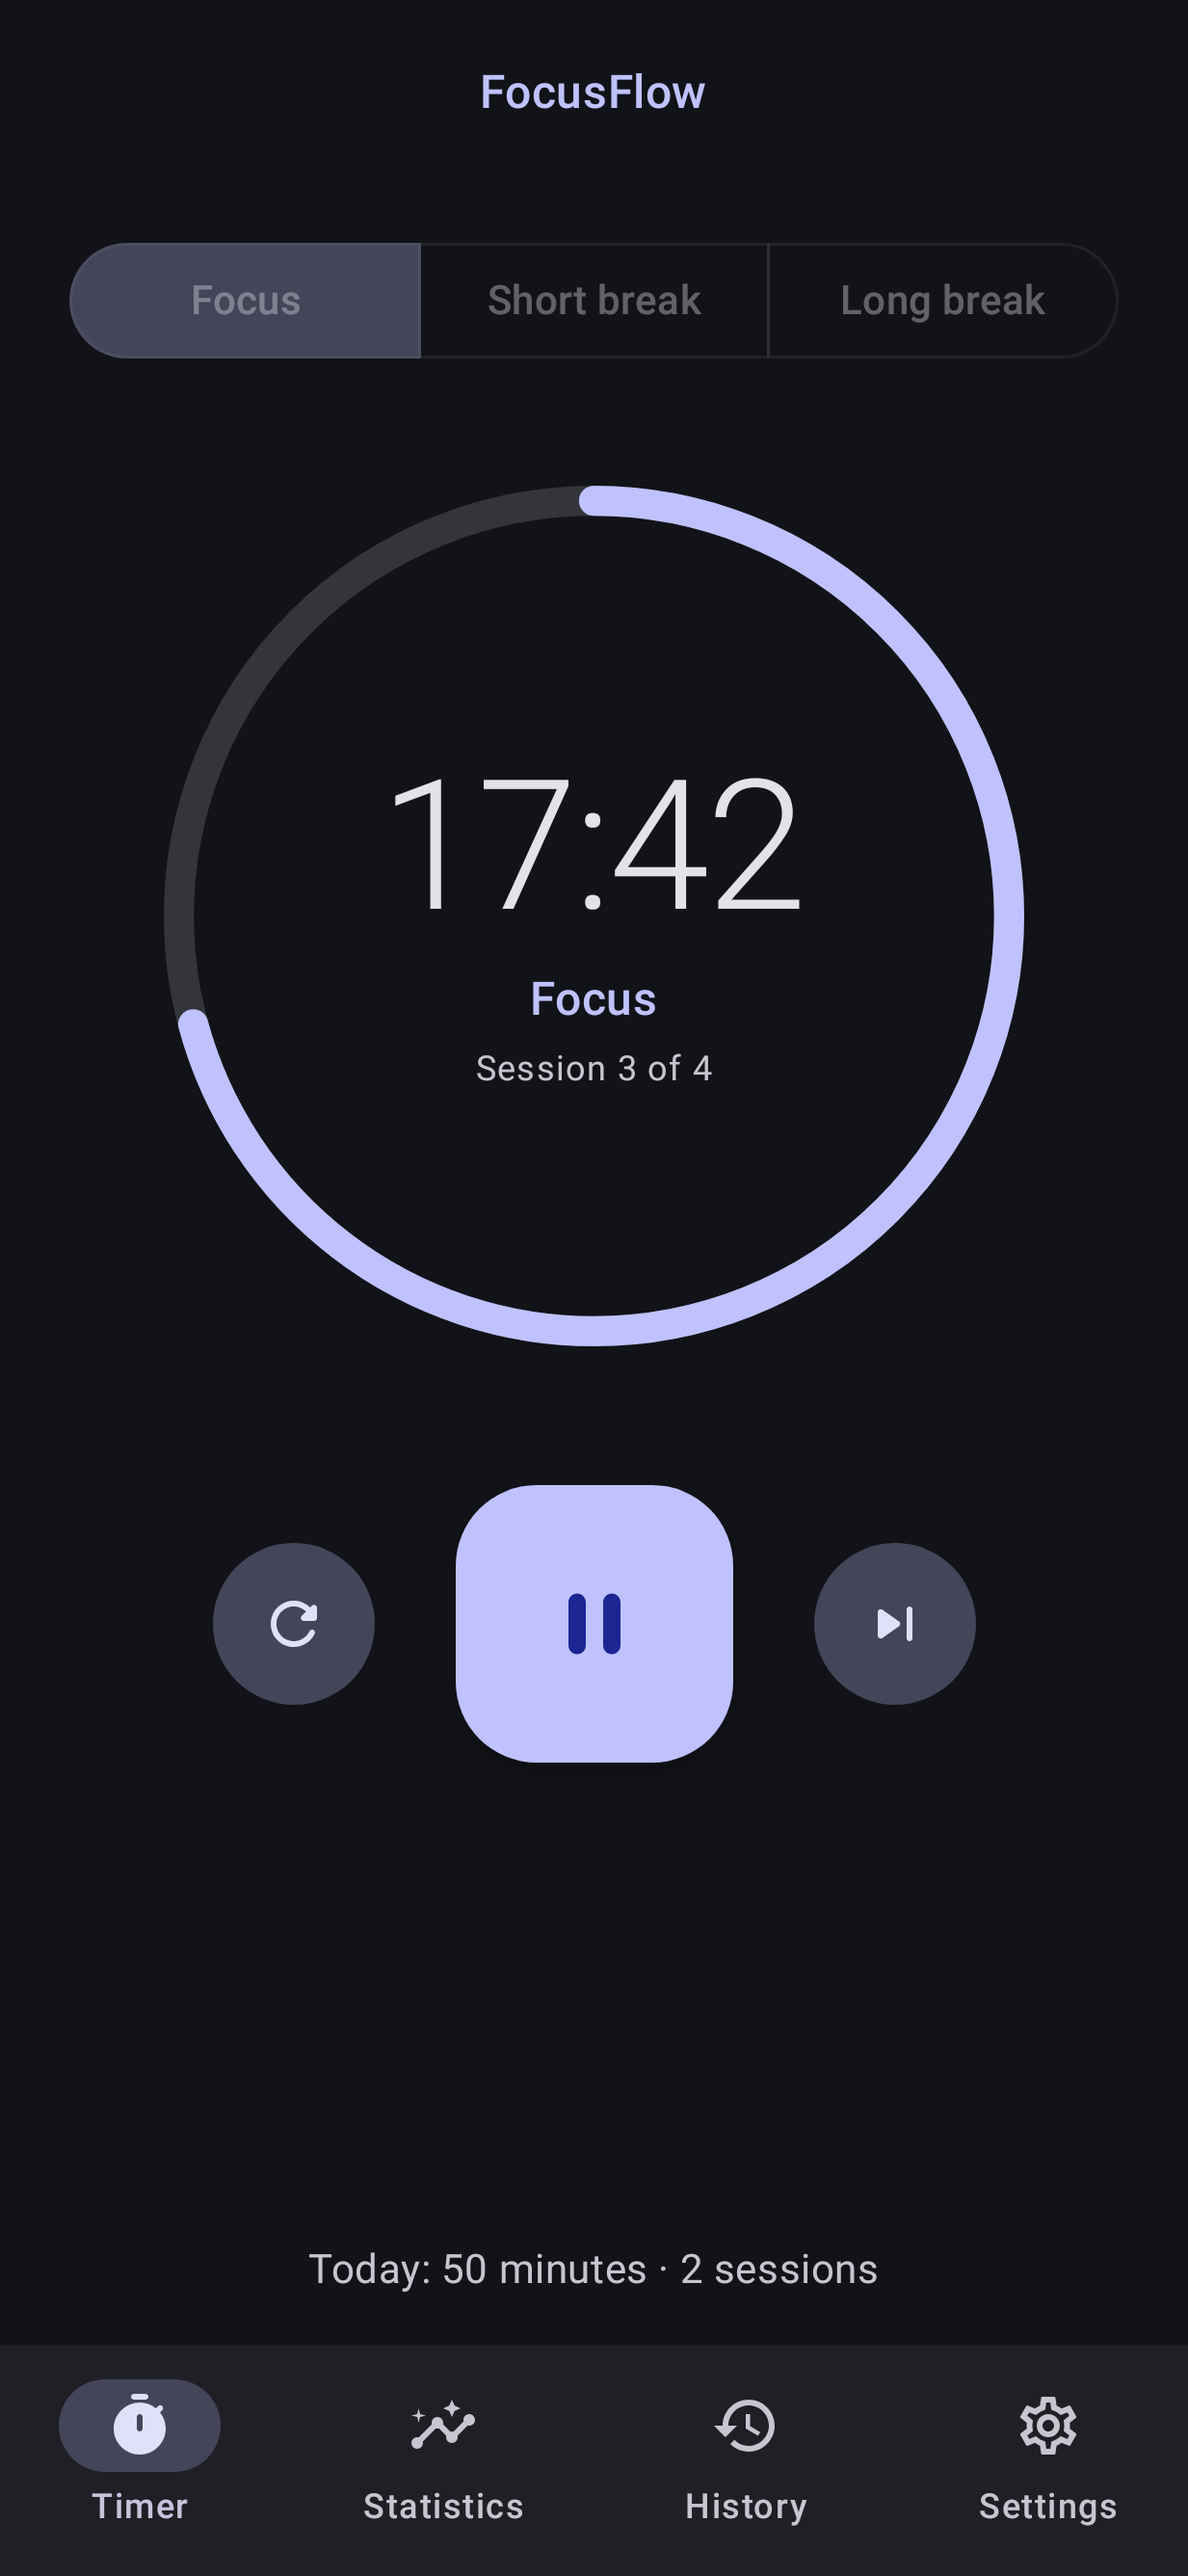
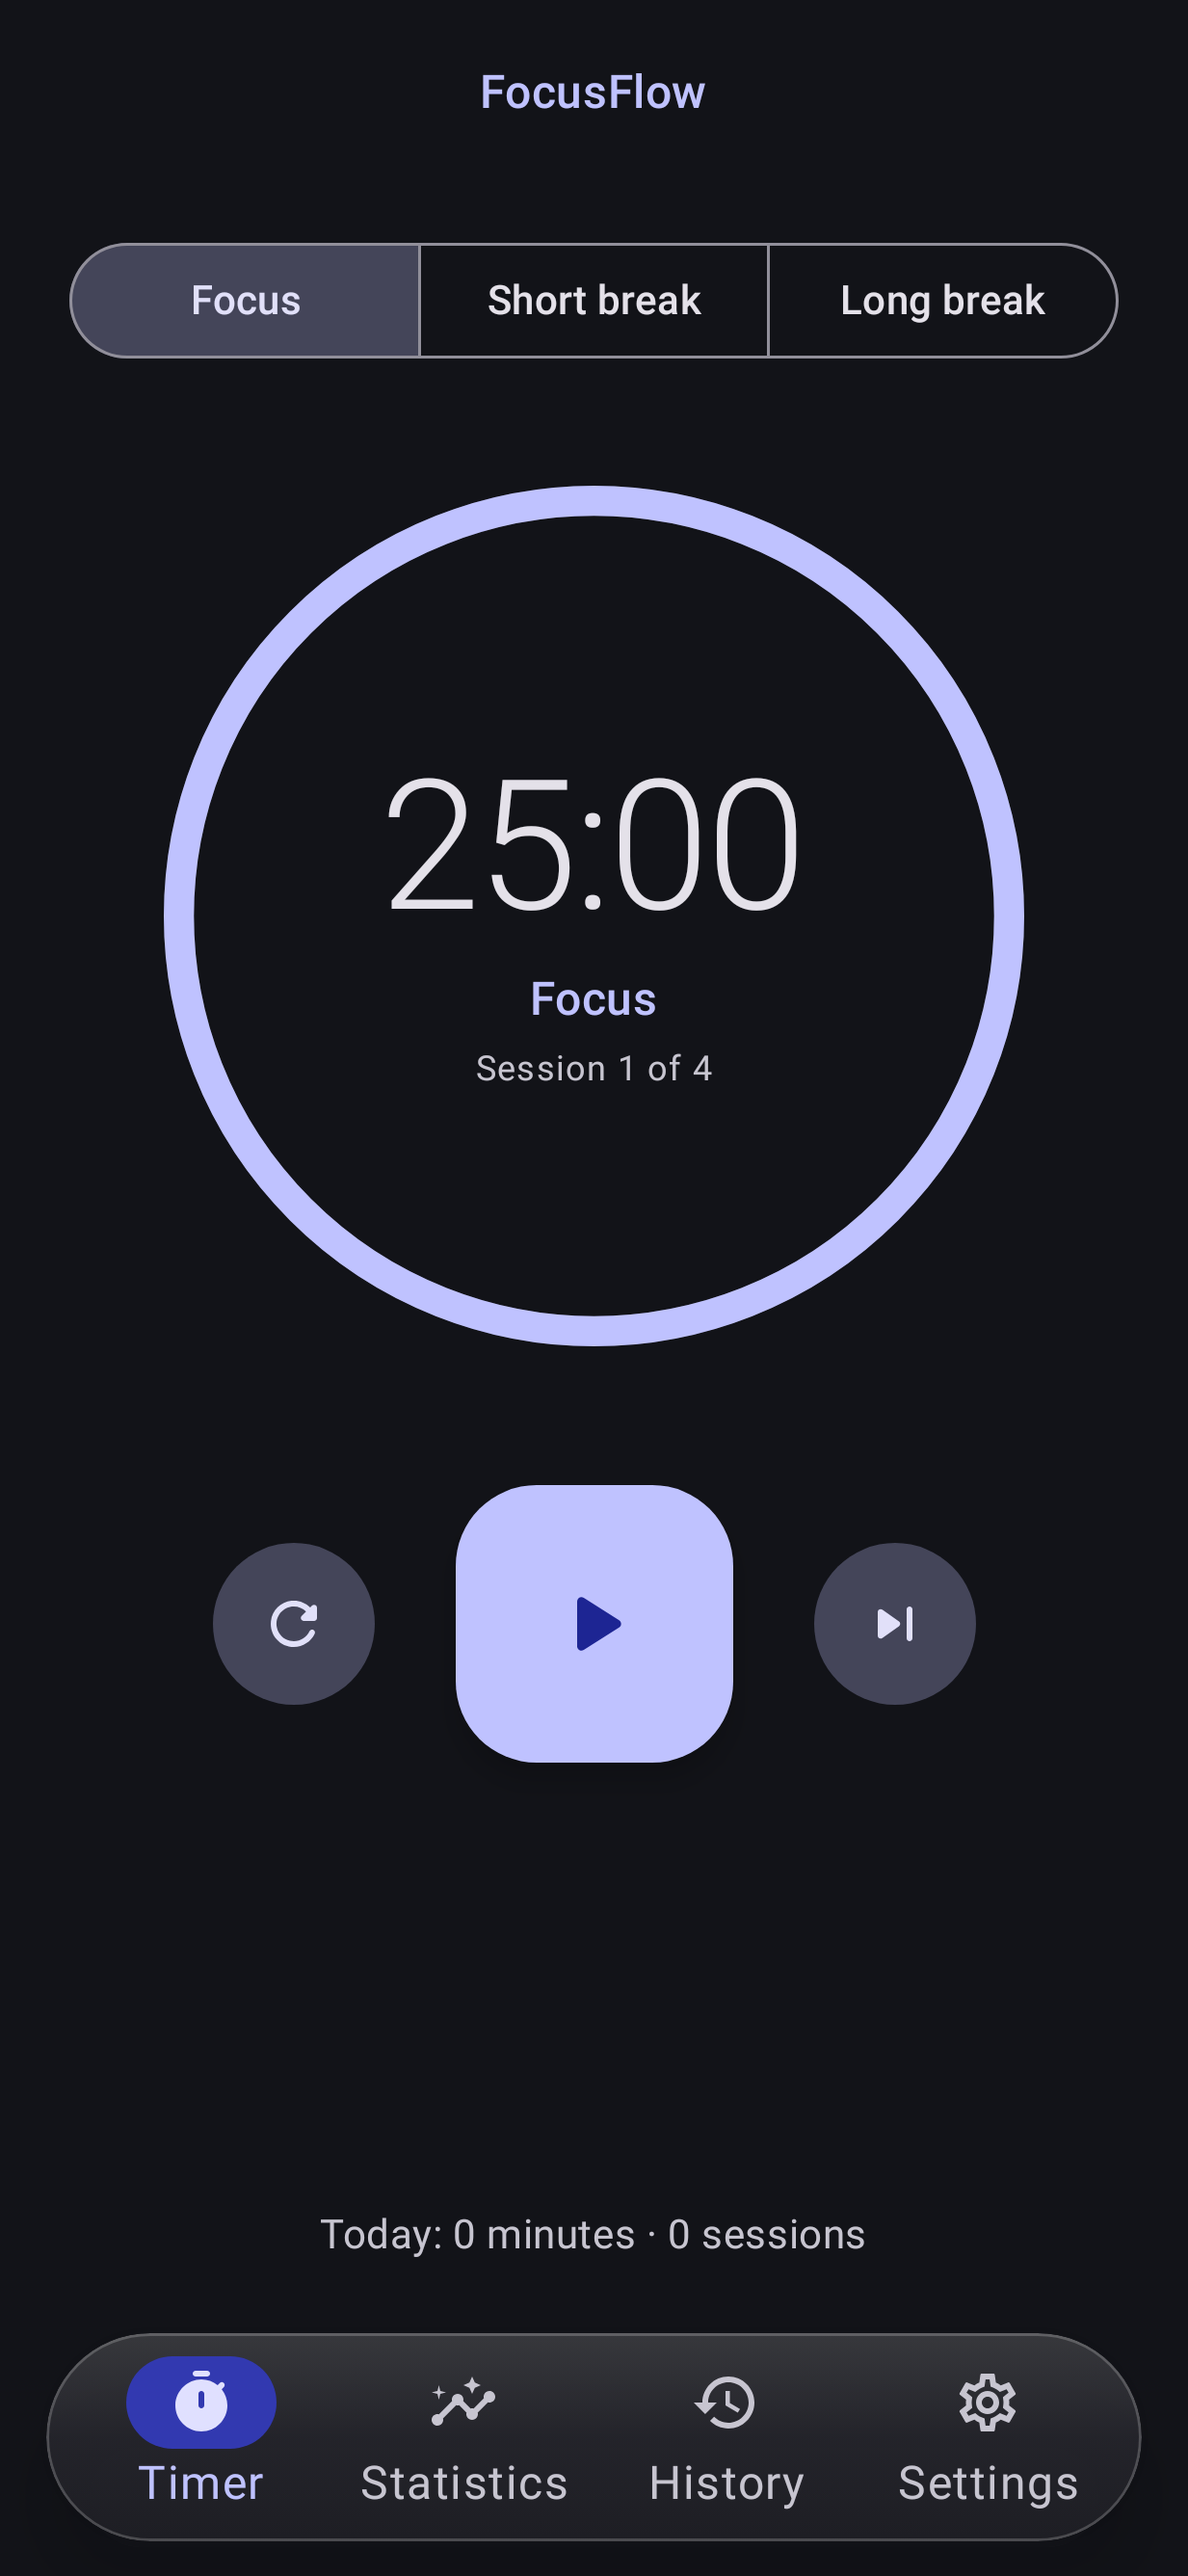
Release 1.0.0-beta.2
Bump the app to version code 4. Phone navigation is the floating glass pill.

diff --git a/docs/IOS_INSTALL.md b/docs/IOS_INSTALL.md
@@ -38,7 +38,7 @@ atau **SideStore**. Ini cara resmi yang dipakai banyak aplikasi open-source, buk
 
 Tab **Sources** ada di AltStore 2.0 ke atas. Kalau tidak ada, perbarui AltStore dulu. Kalau tetap
 ingin memasang dari file, unduh `FocusFlow-ios-unsigned.ipa` dari
-[halaman rilis](https://github.com/ignitrondev/FocusFlow/releases/tag/v1.0.0-beta.1), simpan ke
+[halaman rilis](https://github.com/ignitrondev/FocusFlow/releases/tag/v1.0.0-beta.2), simpan ke
 Files, lalu AltStore → **My Apps** → **+**. File dari WhatsApp: buka chat → ketuk file → ikon
 bagikan → **Save to Files**.
 

diff --git a/README.md b/README.md
@@ -13,7 +13,7 @@ Jetpack Compose and Compose Multiplatform by **Bima Adam Nugraha**, AI-native en
 * **Open source:** Apache License 2.0, with no Google Play Services or proprietary libraries, so it
   can be published on F-Droid.
 
-> **Status: beta (1.0.0-beta.1).** All core features are in. Please
+> **Status: beta (1.0.0-beta.2).** All core features are in. Please
 > [report problems](https://github.com/ignitrondev/FocusFlow/issues/new/choose), especially about
 > alerts on your device.
 

diff --git a/CHANGELOG.md b/CHANGELOG.md
@@ -25,6 +25,12 @@ All notable changes to FocusFlow. Versions follow [Semantic Versioning](https://
 - The timer notification shows the time left in large digits, in both the collapsed and the
   expanded notification.
 
+## 1.0.0-beta.2 — 2026-11-07
+
+### Changed
+- On phones the navigation bar is a floating glass pill with rounded corners. Tablets and phones
+  in landscape keep the side rail.
+
 ## 1.0.0-beta.1 — 2026-11-07
 
 First public beta.
